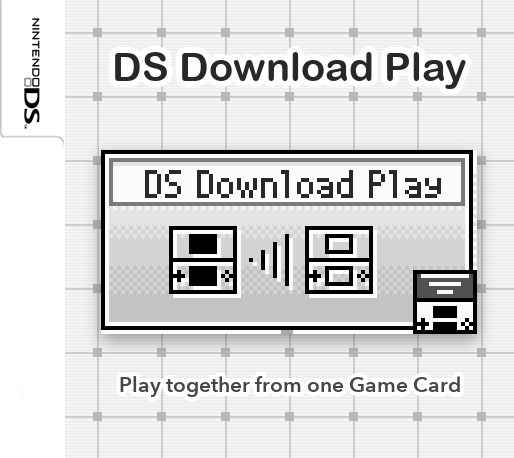
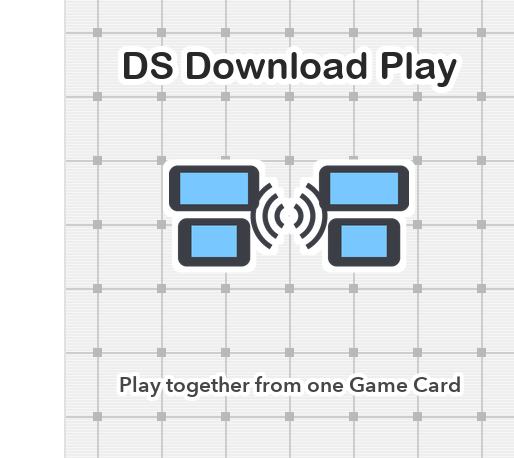
DS Download Play: the row's art from our client, as the 3DS row's

Changed region(s): [[0.1868, 0.3057, 0.965, 0.7642], [0.2179, 0.0917, 0.9027, 0.214], [0.0, 0.0, 0.1245, 0.3057]]

diff --git a/tools/nds-download-play/art/make_art.py b/tools/nds-download-play/art/make_art.py
@@ -1,0 +1,190 @@
+"""Builds the DS Download Play row's art, as tools/n3ds-download-play/art/make_art.py built the 3DS row's.
+
+Usage: make_art.py <art dir> <client capture.png> <out dir>
+
+Kept from the row's art: the case and its paper cover. Replaced: the title (DS Download Play), our own two-handheld icon
+on the cover, the spine, the screenshot (the client's top screen) and the mix (a plain handheld showing both of the
+client's screens). The client capture is a phone screenshot of the client in the app's default DS layout: the top
+screen at 3x across the top, the bottom one at 2x centred below it. Fonts are macOS's (Arial Rounded Bold, Avenir
+Next), as the DS art's.
+"""
+import sys
+from PIL import Image, ImageDraw, ImageFilter, ImageFont
+
+DS, CAPTURE, OUT = sys.argv[1], sys.argv[2], sys.argv[3]
+ROUNDED = '/System/Library/Fonts/Supplemental/Arial Rounded Bold.ttf'
+AVENIR = '/System/Library/Fonts/Avenir Next.ttc'
+INK = (40, 40, 40)
+
+
+def font(path, size, index=0):
+    return ImageFont.truetype(path, size, index=index)
+
+
+def centered(d, cx, y, text, f, fill, stroke=0, stroke_fill=None):
+    left, top, right, bottom = d.textbbox((0, 0), text, font=f, stroke_width=stroke)
+    d.text((cx - (right - left) / 2 - left, y - top), text, font=f, fill=fill, stroke_width=stroke, stroke_fill=stroke_fill)
+
+
+def handheld(w):
+    """A plain clamshell handheld, open, seen from the front: our own shape, not any console's."""
+    s = 4  # drawn at 4x, scaled down for smooth edges
+    W, H = w * s, int(w * 1.28) * s
+    img = Image.new('RGBA', (W, H), (0, 0, 0, 0))
+    d = ImageDraw.Draw(img)
+    lid_h, gap = int(H * 0.47), int(H * 0.04)
+    body = (52, 54, 60, 255)
+    d.rounded_rectangle((0, 0, W - 1, lid_h), radius=W // 14, fill=body)
+    d.rounded_rectangle((W // 12, lid_h + gap, W - 1 - W // 12, H - 1), radius=W // 14, fill=body)
+    d.rectangle((W // 5, lid_h - W // 40, W - 1 - W // 5, lid_h + gap + W // 40), fill=(36, 38, 42, 255))  # hinge
+    top = (int(W * 0.08), int(lid_h * 0.12), int(W * 0.92), int(lid_h * 0.88))
+    bot = (int(W * 0.2), lid_h + gap + int(lid_h * 0.1), int(W * 0.8), lid_h + gap + int(lid_h * 0.78))
+    d.rectangle(top, fill=(0, 0, 0, 255))
+    d.rectangle(bot, fill=(0, 0, 0, 255))
+    small = img.resize((w, H // s), Image.LANCZOS)
+    scale = lambda box: tuple(v // s for v in box)
+    return small, scale(top), scale(bot)
+
+
+def pair_icon(size):
+    """Our two-handheld Download Play icon: two small clamshells with signal arcs between them."""
+    s = 4
+    W = size * s
+    img = Image.new('RGBA', (W * 2, W), (0, 0, 0, 0))
+    d = ImageDraw.Draw(img)
+    for x0 in (0, int(W * 1.25)):
+        w = int(W * 0.75)
+        d.rounded_rectangle((x0, int(W * 0.08), x0 + w, int(W * 0.46)), radius=W // 14, fill=(60, 62, 70, 255))
+        d.rounded_rectangle((x0 + w // 10, int(W * 0.52), x0 + w - w // 10, int(W * 0.92)), radius=W // 14, fill=(60, 62, 70, 255))
+        d.rectangle((x0 + w // 8, int(W * 0.14), x0 + w - w // 8, int(W * 0.40)), fill=(120, 200, 255, 255))
+        d.rectangle((x0 + w // 4, int(W * 0.58), x0 + w - w // 4, int(W * 0.84)), fill=(120, 200, 255, 255))
+    cx, cy = W, int(W * 0.5)
+    for i, r in enumerate((W * 0.12, W * 0.22, W * 0.32)):
+        d.arc((cx - r, cy - r, cx + r, cy + r), 300, 60, fill=(60, 62, 70, 255), width=W // 22)
+        d.arc((cx - r, cy - r, cx + r, cy + r), 120, 240, fill=(60, 62, 70, 255), width=W // 22)
+    return img.resize((size * 2, size), Image.LANCZOS)
+
+
+def halo(img, px):
+    """A white outline under [img], as the DS wheel's text and icon have."""
+    out = Image.new('RGBA', (img.width + 2 * px, img.height + 2 * px), (0, 0, 0, 0))
+    out.paste((255, 255, 255, 255), (px, px), img.getchannel('A'))
+    out = out.filter(ImageFilter.MaxFilter(px * 2 + 1))
+    out.alpha_composite(img, (px, px))
+    return out
+
+
+def client_screens(capture):
+    """The client's two DS screens (256x192 each) from a phone screenshot in the default layout."""
+    cap = Image.open(capture).convert('RGB')
+    w, h = cap.size
+    top_h = h * 3 // 5          # the top screen at 3x: 576 of 960
+    top_w = top_h * 4 // 3
+    top = cap.crop(((w - top_w) // 2, 0, (w + top_w) // 2, top_h))
+    bot_w = (h - top_h) * 4 // 3
+    bottom = cap.crop(((w - bot_w) // 2, top_h, (w + bot_w) // 2, h))
+    return top.resize((256, 192), Image.LANCZOS), bottom.resize((256, 192), Image.LANCZOS)
+
+
+# --- screenshot: the client's top screen (the picked game and the hints)
+top_screen, bottom_screen = client_screens(CAPTURE)
+top_screen.save(f'{OUT}/screenshot.png')
+
+# --- 2D box: the DS cover's size and grid paper (redrawn as the DS art draws it), a plain white strip, a new title
+# and our icon in place of the DS menu tile
+ds2d = Image.open(f'{DS}/boxart2d.png').convert('RGB')
+strip_w = next(x for x in range(ds2d.width) if ds2d.getpixel((x, ds2d.height // 2))[0] < 250)
+
+
+def menu_paper(size, cell):
+    """Lined paper with a grid and nodes, as the DS art's cover (tools/ds-download-play-art)."""
+    w, h = size
+    im = Image.new('RGB', size, (238, 238, 238))
+    d = ImageDraw.Draw(im)
+    for y in range(0, h, 3):
+        d.line([(0, y), (w, y)], fill=(246, 246, 246))
+    for x in range(cell // 2, w, cell):
+        d.line([(x, 0), (x, h)], fill=(205, 205, 205), width=2)
+    for y in range(cell // 2, h, cell):
+        d.line([(0, y), (w, y)], fill=(205, 205, 205), width=2)
+    for x in range(cell // 2, w, cell):
+        for y in range(cell // 2, h, cell):
+            d.rectangle([x - 4, y - 4, x + 4, y + 4], fill=(185, 185, 185))
+    return im
+
+
+cover = Image.new('RGB', ds2d.size, (255, 255, 255))
+cover.paste(menu_paper((ds2d.width - strip_w, ds2d.height), 64), (strip_w, 0))
+d = ImageDraw.Draw(cover)
+d.line([(strip_w - 1, 0), (strip_w - 1, ds2d.height)], fill=(225, 225, 225), width=2)
+cx = strip_w + (ds2d.width - strip_w) / 2
+centered(d, cx, 46, 'DS Download Play', font(ROUNDED, 38), INK, 6, (255, 255, 255))
+icon = halo(pair_icon(120), 6)
+cover.paste(icon, (int(cx - icon.width / 2), 150), icon)
+centered(d, cx, 372, 'Play together from one Game Card', font(AVENIR, 21, 2), (70, 70, 70), 4, (255, 255, 255))
+cover.save(f'{OUT}/boxart2d.png')
+
+
+def warp(src, quad, size):
+    """[src] stretched onto [quad] (TL, TR, BR, BL), on a transparent canvas of [size]."""
+    w, h = src.size
+    corners = [(0, 0), (w, 0), (w, h), (0, h)]
+    a, b = [], []
+    for (x, y), (u, v) in zip(quad, corners):
+        a.append([x, y, 1, 0, 0, 0, -u * x, -u * y]); b.append(u)
+        a.append([0, 0, 0, x, y, 1, -v * x, -v * y]); b.append(v)
+    n = len(b)
+    m = [row[:] + [b[i]] for i, row in enumerate(a)]
+    for c in range(n):
+        p = max(range(c, n), key=lambda r: abs(m[r][c]))
+        m[c], m[p] = m[p], m[c]
+        for r in range(n):
+            if r != c:
+                f = m[r][c] / m[c][c]
+                m[r] = [m[r][k] - f * m[c][k] for k in range(n + 1)]
+    coeffs = [m[i][n] / m[i][i] for i in range(n)]
+    out = src.convert('RGBA').transform(size, Image.PERSPECTIVE, coeffs, Image.BICUBIC)
+    mask = Image.new('L', size, 0)
+    ImageDraw.Draw(mask).polygon(quad, fill=255)
+    out.putalpha(Image.composite(out.getchannel('A'), Image.new('L', size, 0), mask))
+    return out
+
+
+# --- 3D box: the DS box with the new cover and a spine of our own
+box = Image.open(f'{DS}/boxart.png').convert('RGBA')
+spine_q = [(16, 38), (101, 5), (101, 700), (16, 668)]
+cover_q = [(101, 5), (536, 81), (536, 624), (101, 700)]
+spine = Image.new('RGB', (100, 820), (250, 250, 250))
+label = Image.new('RGBA', (780, 100), (0, 0, 0, 0))
+centered(ImageDraw.Draw(label), 390, 30, 'DS DOWNLOAD PLAY', font(ROUNDED, 44), INK)
+spine.paste(label.rotate(90, expand=True), (0, 20), label.rotate(90, expand=True))
+art = cover.crop((strip_w, 0, cover.width, cover.height))
+box.alpha_composite(warp(spine, spine_q, box.size))
+box.alpha_composite(warp(art, cover_q, box.size))
+box.save(f'{OUT}/boxart.png')
+
+# --- wheel: our icon over the title (600x200, transparent)
+wheel = Image.new('RGBA', (600, 200), (0, 0, 0, 0))
+wi = halo(pair_icon(70), 6)
+wheel.alpha_composite(wi, ((600 - wi.width) // 2, 0))
+d = ImageDraw.Draw(wheel)
+centered(d, 300, 96, 'DS Download Play', font(ROUNDED, 62), (34, 34, 34), 7, (255, 255, 255))
+bbox = wheel.getbbox()
+wheel = wheel.crop(bbox)
+canvas = Image.new('RGBA', (600, 200), (0, 0, 0, 0))
+wheel.thumbnail((600, 200), Image.LANCZOS)
+canvas.alpha_composite(wheel, ((600 - wheel.width) // 2, (200 - wheel.height) // 2))
+canvas.save(f'{OUT}/wheel.png')
+
+# --- mix: a plain handheld showing our client, the box and the wheel in front (745x745)
+mix = Image.new('RGBA', (745, 745), (0, 0, 0, 0))
+dev, top, bot = handheld(540)
+dev.paste(top_screen.resize((top[2] - top[0], top[3] - top[1]), Image.LANCZOS), (top[0], top[1]))
+dev.paste(bottom_screen.resize((bot[2] - bot[0], bot[3] - bot[1]), Image.LANCZOS), (bot[0], bot[1]))
+mix.alpha_composite(dev, (745 - dev.width - 20, 0))
+b3 = box.copy(); b3.thumbnail((290, 370), Image.LANCZOS)
+mix.alpha_composite(b3, (0, 745 - b3.height))
+wl = canvas.copy(); wl.thumbnail((420, 140), Image.LANCZOS)
+mix.alpha_composite(wl, (745 - wl.width - 6, 745 - wl.height - 16))
+mix.save(f'{OUT}/mix.png')
+print('done')

diff --git a/tools/nds-download-play/README.md b/tools/nds-download-play/README.md
@@ -11,3 +11,14 @@ Build (Docker, nothing installed on the machine): `./build.sh`. It puts `downloa
 Host tests for the core's protocol and the mailbox: `make -C test` (needs the patched core tree: `gmake -C cores
 melondsds` once). `test-data/` holds a real exchange between the DS menu's own client and a Mario Party DS host
 (`wmb-capture.txt`) and six of that host's beacons (`beacons.txt`).
+
+## Row art
+
+`art/make_art.py` builds the row's art (`androidApp/src/main/assets/nds-dlp/`: 3D box, 2D box, wheel, screenshot, mix)
+the way `tools/n3ds-download-play/art/make_art.py` built the 3DS row's: the DS row's case and paper (from before this
+client, `git show <commit>:androidApp/src/main/assets/nds-menu/<file>`), our two-handheld icon, and a phone capture of
+this client (`art/cap_client.png`, an AYANEO Pocket Air Mini screenshot of the list in the default DS layout).
+
+```
+.venv/bin/python -I art/make_art.py <the old DS art> art/cap_client.png ../../androidApp/src/main/assets/nds-dlp
+```
